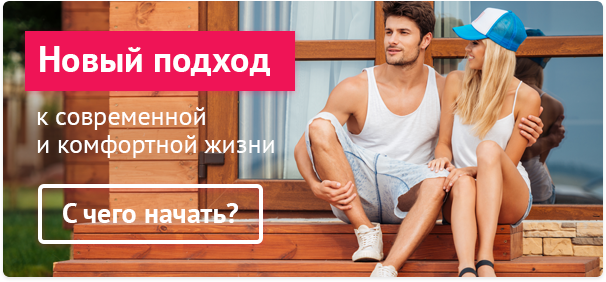
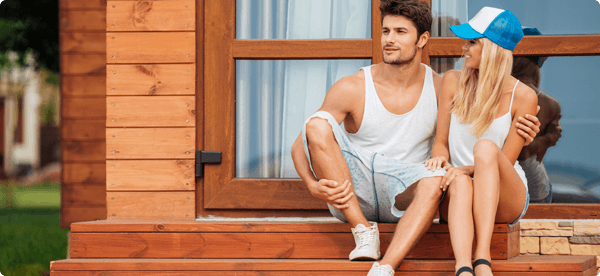
1

diff --git a/food/index.html b/food/index.html
@@ -10,7 +10,7 @@
 </head>
 <body>
 
-	<nav class="navbar bg-dark-blue d-flex flex-row align-items-center justify-content-between">
+	<nav class="navbar bg-dark-blue d-flex flex-row align-items-center justify-content-between mb-3">
 		<div class="small text-white navbar-dropmenu">
 			Выбрать дом
 		</div>
@@ -21,23 +21,45 @@
 			<img class="burger-menu-icon" src="img/burger.svg" alt="">
 		</a>
 	</nav>
-
-
-
- <div class="swiper-container">
+<div class="container">
+<div class="row">
+	<div class="col-12">
+		
+<div class="swiper-container">
+   
     <div class="swiper-wrapper">
       <div class="swiper-slide">
-      <a class="cont-block" href="#">
-			<img  class="" src="img/main-slider.png" alt="">
-		</a>
-		</div>
-      <div class="swiper-slide">Slide 2</div>
-      <div class="swiper-slide">Slide 3</div>
+        <div class="title" data-swiper-parallax="-300">Новый подход</div>
+        <div class="text" data-swiper-parallax="-200">
+          <p>к современной и комфортной жизни</p>
+        </div>
+        <img src="img/main-slider.png" alt="" data-swiper-parallax="-23%" class="parallax-bg">
+
+      </div>
+      <div class="swiper-slide">
+        <div class="title" data-swiper-parallax="-300" data-swiper-parallax-opacity="0">Slide 2</div>
+        <div class="subtitle" data-swiper-parallax="-200">Subtitle</div>
+        <div class="text" data-swiper-parallax="-100">
+          <p>Lorem ipsum dolor sit amet, consectetur adipiscing elit. </p>
+        </div>
+      </div>
+      <div class="swiper-slide">
+        <div class="title" data-swiper-parallax="-300">Slide 3</div>
+        <div class="subtitle" data-swiper-parallax="-200">Subtitle</div>
+        <div class="text" data-swiper-parallax="-100">
+          <p> Nulla ligula nisi, imperdiet ut lacinia nec, tincidunt ut libero. Aenean feugiat non eros quis feugiat.</p>
+        </div>
+      </div>
     </div>
-    <!-- Add Pagination -->
-    <div class="swiper-pagination"></div>
+
+
   </div>
 
+	</div>
+</div>
+
+  
+</div>
 
 	<script src="https://code.jquery.com/jquery-3.2.1.slim.min.js" integrity="sha384-KJ3o2DKtIkvYIK3UENzmM7KCkRr/rE9/Qpg6aAZGJwFDMVNA/GpGFF93hXpG5KkN" crossorigin="anonymous"></script>
 	<script src="https://cdnjs.cloudflare.com/ajax/libs/popper.js/1.12.9/umd/popper.min.js" integrity="sha384-ApNbgh9B+Y1QKtv3Rn7W3mgPxhU9K/ScQsAP7hUibX39j7fakFPskvXusvfa0b4Q" crossorigin="anonymous"></script>

diff --git a/food/custom.css b/food/custom.css
@@ -24,25 +24,43 @@
 
 
 
- .swiper-container {
+.swiper-container {
       width: 100%;
       height: 100%;
+
     }
     .swiper-slide {
-      text-align: center;
       font-size: 18px;
-      background: #fff;
-      /* Center slide text vertically */
-      display: -webkit-box;
-      display: -ms-flexbox;
-      display: -webkit-flex;
-      display: flex;
-      -webkit-box-pack: center;
-      -ms-flex-pack: center;
-      -webkit-justify-content: center;
-      justify-content: center;
-      -webkit-box-align: center;
-      -ms-flex-align: center;
-      -webkit-align-items: center;
-      align-items: center;
+      color:#fff;
+      -webkit-box-sizing: border-box;
+      box-sizing: border-box;
+      padding: 25px 20px;
+    }
+    .parallax-bg {
+      position: absolute;
+      left: 0;
+      top: 0;
+      width: 100%;
+      height: auto;
+      z-index: -1;
+    }
+    .swiper-slide .title {
+
+      font-weight: 700;
+
+
+  font-size: 17px;
+  font-family: "PT Sans";
+  padding: 5px;
+  background-color: #ef1456;
+  display: inline-block;
+
+
+
+    }
+
+    .swiper-slide .text {
+      font-size: 14px;
+      max-width: 150px;
+      line-height: 1.3;
     }

diff --git a/food/custom.js b/food/custom.js
@@ -1,7 +1,6 @@
 var swiper = new Swiper('.swiper-container', {
-      spaceBetween: 30,
-      pagination: {
-        el: '.swiper-pagination',
-        clickable: true,
-      },
+      speed: 600,
+      parallax: true,
+
+
     });
